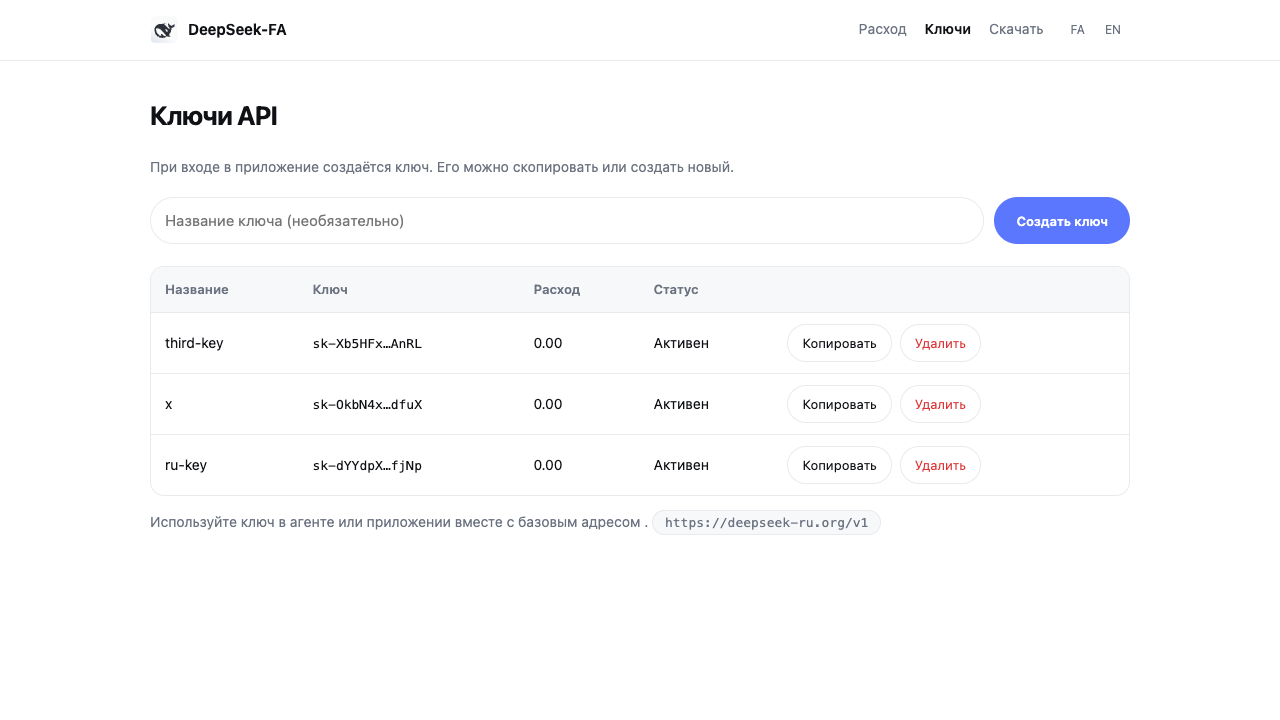
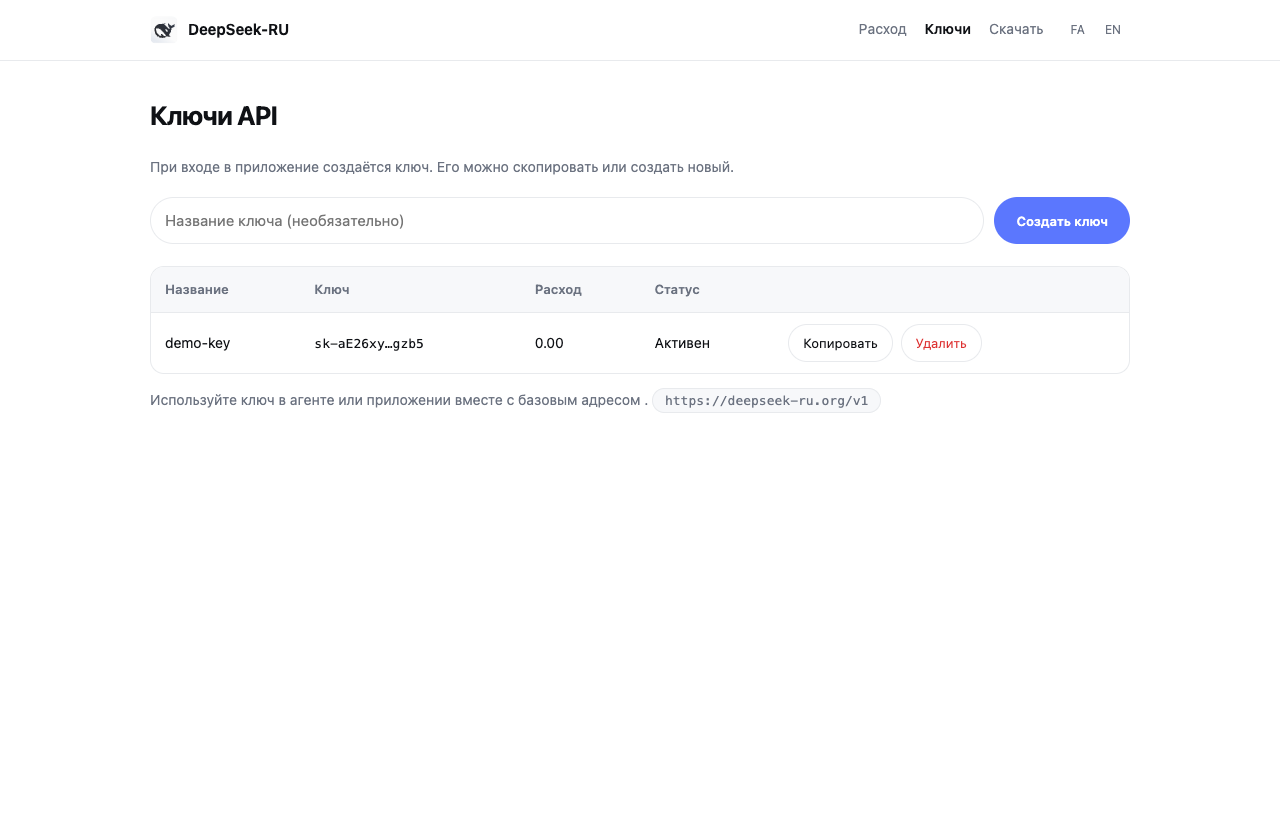
fix(console): 页头品牌名按品牌替换，俄语页不再显示 DeepSeek-FA
之前只替换了 <title>，页头 <img> 后的品牌文字是裸文本，没被 token 化，
导致 RU 构建产物页头写死 DeepSeek-FA。现四页统一用 {{brand}}。

顺带更新俄语密钥页截图（页头 DeepSeek-RU、基准地址 deepseek-ru.org/v1）。

diff --git a/console/dist/ru/me/login.html b/console/dist/ru/me/login.html
@@ -9,7 +9,7 @@
 <body data-page-title="auth.signInTitle">
 <header>
   <a class="brand" href="https://www.deepseek-ru.org/">
-    <img src="/me/icon.svg" alt="" width="28" height="28">DeepSeek-FA
+    <img src="/me/icon.svg" alt="" width="28" height="28">DeepSeek-RU
   </a>
   <nav>
     <a href="https://www.deepseek-ru.org/" data-i18n="nav.home">خانه</a>

diff --git a/console/dist/ru/me/register.html b/console/dist/ru/me/register.html
@@ -9,7 +9,7 @@
 <body data-page-title="auth.signUpTitle">
 <header>
   <a class="brand" href="https://www.deepseek-ru.org/">
-    <img src="/me/icon.svg" alt="" width="28" height="28">DeepSeek-FA
+    <img src="/me/icon.svg" alt="" width="28" height="28">DeepSeek-RU
   </a>
   <nav>
     <a href="https://www.deepseek-ru.org/" data-i18n="nav.home">خانه</a>

diff --git a/console/dist/ru/me/index.html b/console/dist/ru/me/index.html
@@ -9,7 +9,7 @@
 <body data-page-title="nav.usage">
 <header>
   <a class="brand" href="https://www.deepseek-ru.org/">
-    <img src="/me/icon.svg" alt="" width="28" height="28">DeepSeek-FA
+    <img src="/me/icon.svg" alt="" width="28" height="28">DeepSeek-RU
   </a>
   <nav>
     <a href="/me/" aria-current="page" data-i18n="nav.usage">مصرف</a>

diff --git a/console/dist/ru/me/keys.html b/console/dist/ru/me/keys.html
@@ -9,7 +9,7 @@
 <body data-page-title="keys.title">
 <header>
   <a class="brand" href="https://www.deepseek-ru.org/">
-    <img src="/me/icon.svg" alt="" width="28" height="28">DeepSeek-FA
+    <img src="/me/icon.svg" alt="" width="28" height="28">DeepSeek-RU
   </a>
   <nav>
     <a href="/me/" data-i18n="nav.usage">مصرف</a>

diff --git a/console/me/index.html b/console/me/index.html
@@ -9,7 +9,7 @@
 <body data-page-title="nav.usage">
 <header>
   <a class="brand" href="{{site}}/">
-    <img src="/me/icon.svg" alt="" width="28" height="28">DeepSeek-FA
+    <img src="/me/icon.svg" alt="" width="28" height="28">{{brand}}
   </a>
   <nav>
     <a href="/me/" aria-current="page" data-i18n="nav.usage">مصرف</a>

diff --git a/console/me/login.html b/console/me/login.html
@@ -9,7 +9,7 @@
 <body data-page-title="auth.signInTitle">
 <header>
   <a class="brand" href="{{site}}/">
-    <img src="/me/icon.svg" alt="" width="28" height="28">DeepSeek-FA
+    <img src="/me/icon.svg" alt="" width="28" height="28">{{brand}}
   </a>
   <nav>
     <a href="{{site}}/" data-i18n="nav.home">خانه</a>

diff --git a/console/me/register.html b/console/me/register.html
@@ -9,7 +9,7 @@
 <body data-page-title="auth.signUpTitle">
 <header>
   <a class="brand" href="{{site}}/">
-    <img src="/me/icon.svg" alt="" width="28" height="28">DeepSeek-FA
+    <img src="/me/icon.svg" alt="" width="28" height="28">{{brand}}
   </a>
   <nav>
     <a href="{{site}}/" data-i18n="nav.home">خانه</a>

diff --git a/console/me/keys.html b/console/me/keys.html
@@ -9,7 +9,7 @@
 <body data-page-title="keys.title">
 <header>
   <a class="brand" href="{{site}}/">
-    <img src="/me/icon.svg" alt="" width="28" height="28">DeepSeek-FA
+    <img src="/me/icon.svg" alt="" width="28" height="28">{{brand}}
   </a>
   <nav>
     <a href="/me/" data-i18n="nav.usage">مصرف</a>
